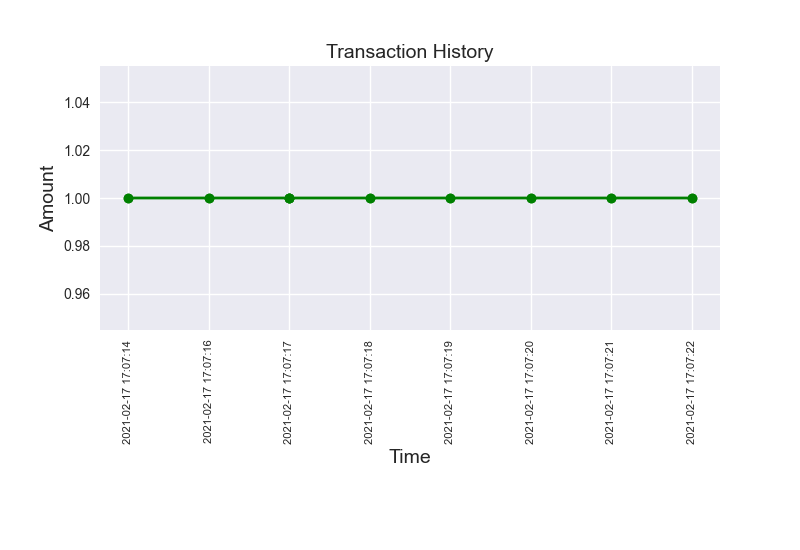
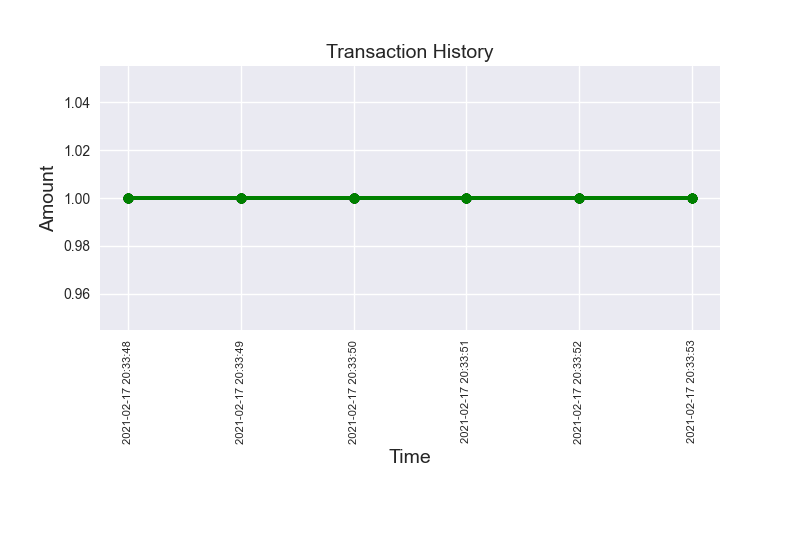
UI change
Graph

diff --git a/templates/tracktransaction.html b/templates/tracktransaction.html
@@ -25,6 +25,10 @@
 <div class="allocation">
   ALLOCATION: <b style="color:black">{{ request.form["search_key"].title() }}</b>
 </div>
+<div >
+  <img src="\static\img\plot.png"  class="plot" >
+</div>
+  
 <div class="track-table">
   <table class="table-content">
     <thead>

diff --git a/static/css/style.css b/static/css/style.css
@@ -550,3 +550,12 @@ label > input[type="checkbox"]:checked + * {
   width: 8%;
   height: 8%;
 }
+.plot{
+  margin-top: 4%;
+  position: absolute;
+  height: 300px;
+  cursor: pointer;
+  right: 5%;
+  width: 30%;
+  padding: 10px;
+}
